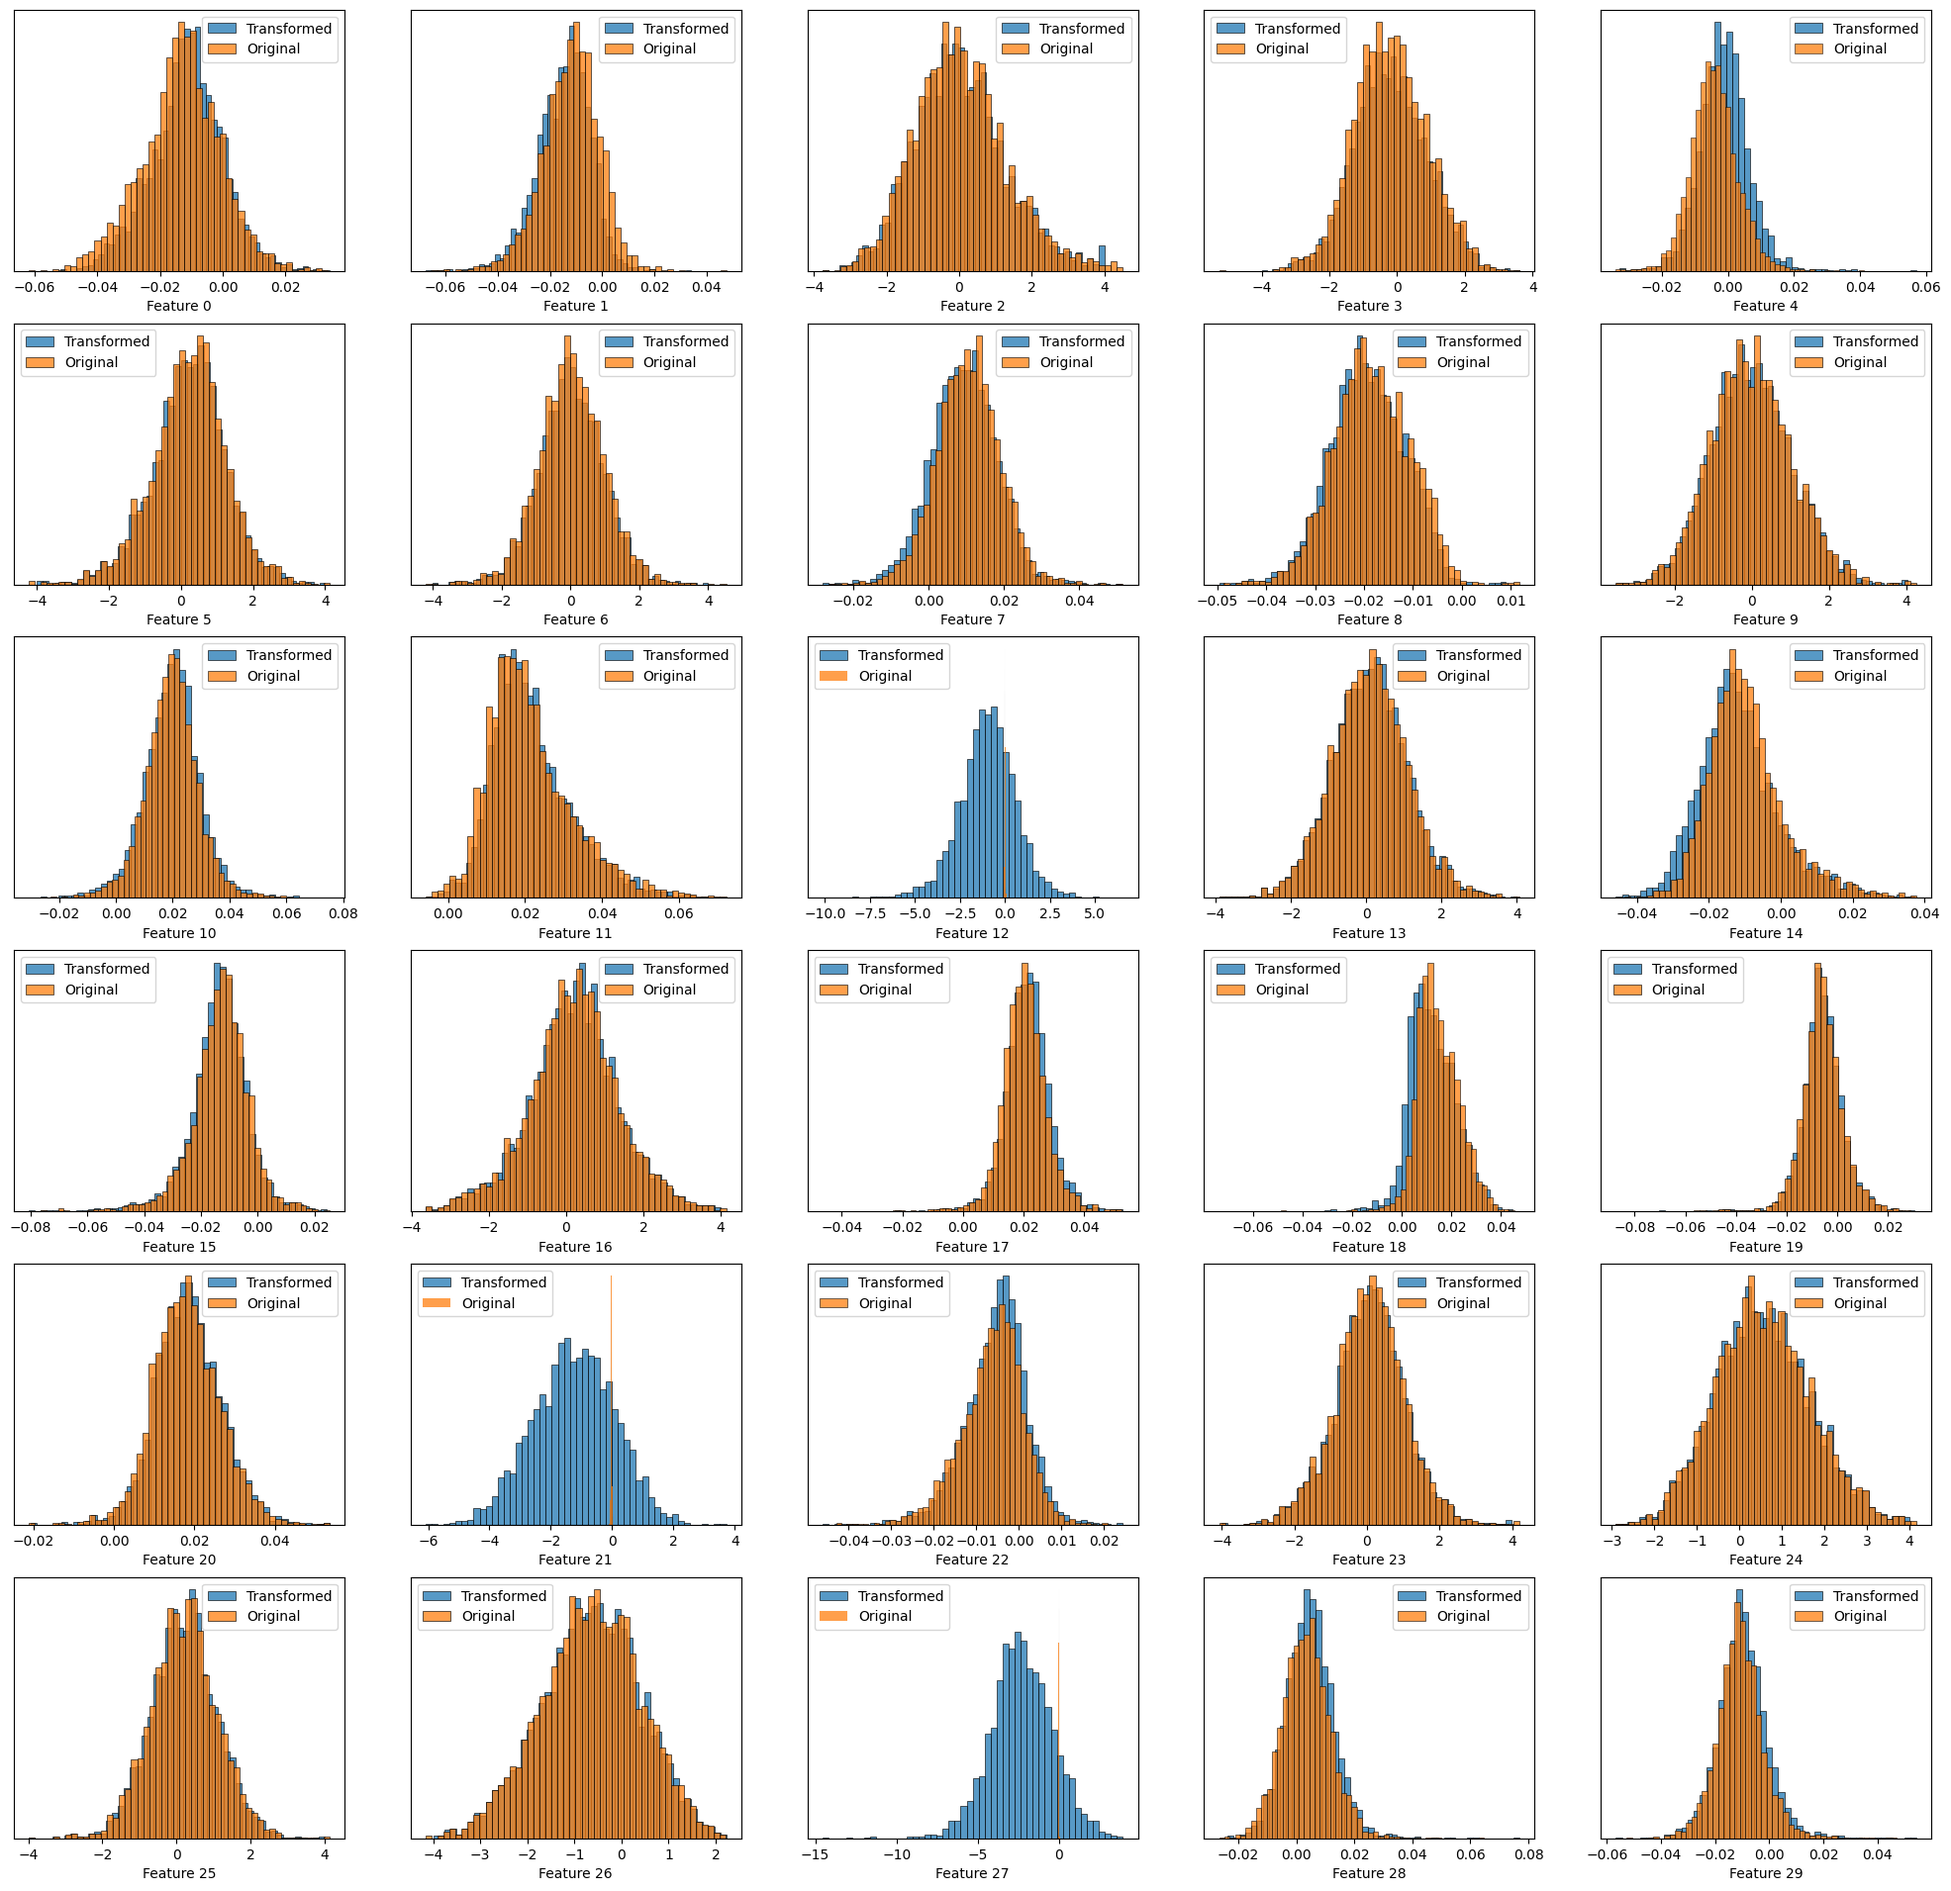
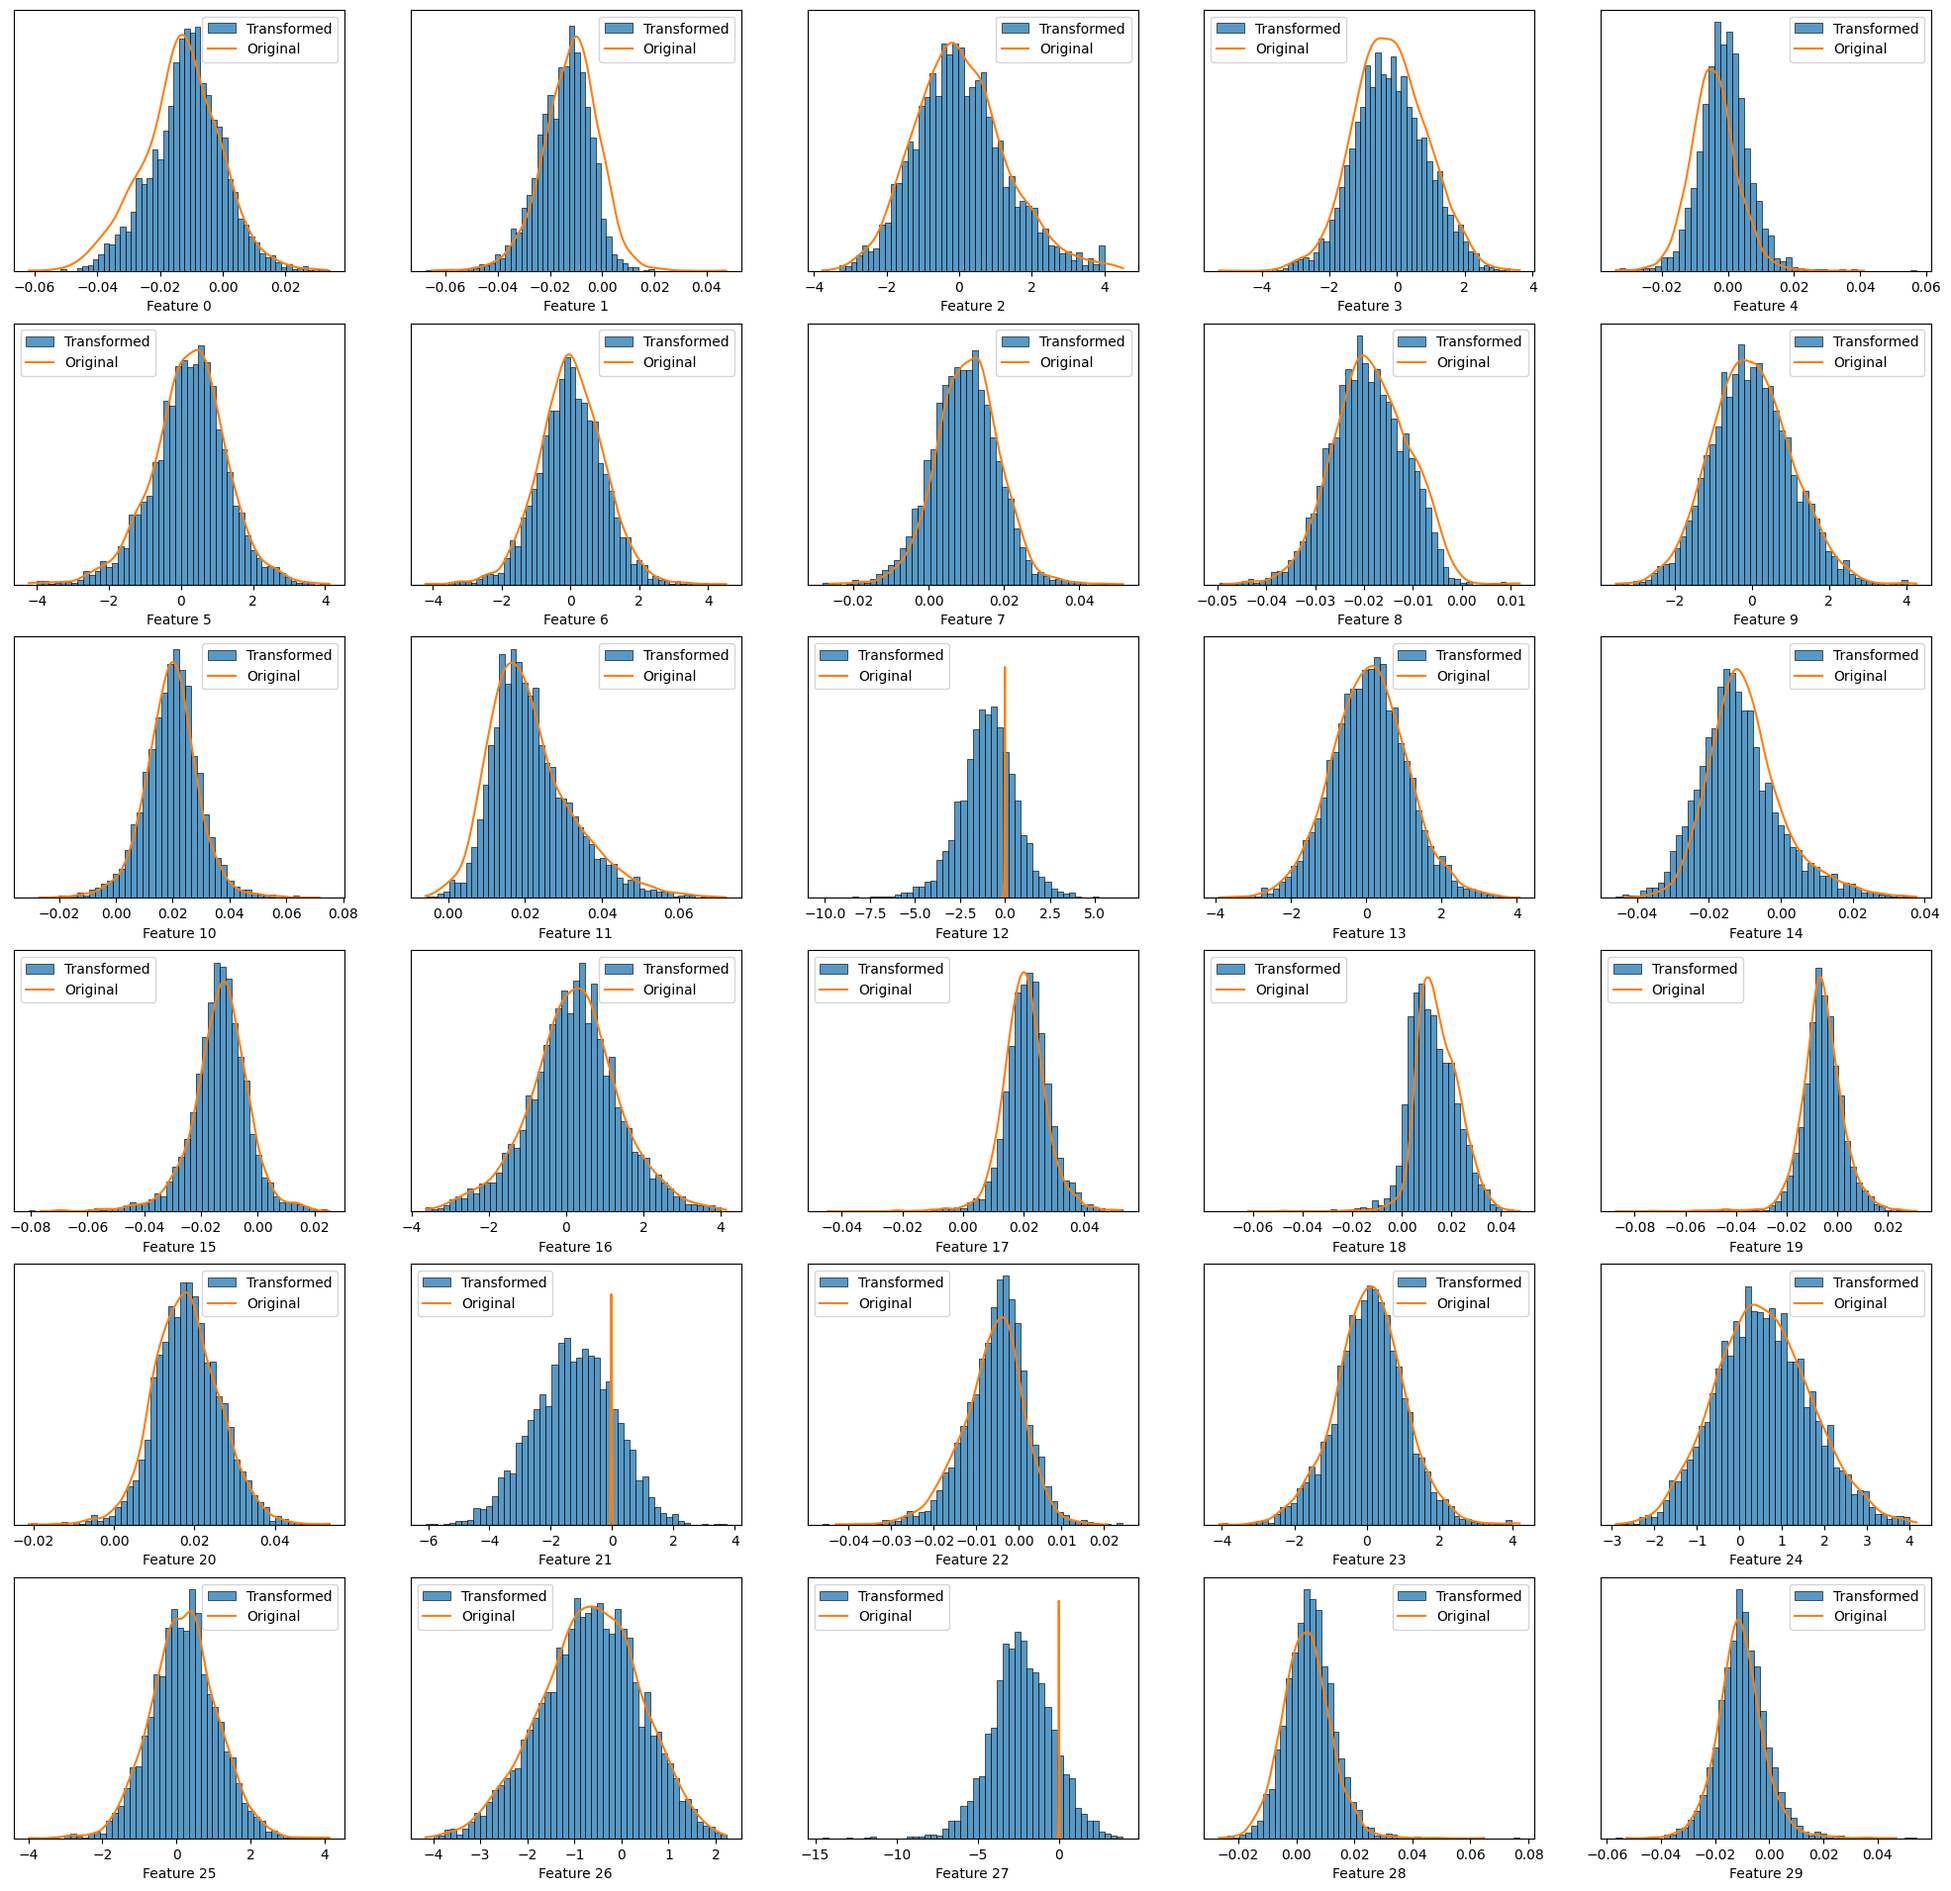
Code

diff --git a/comparison-extracted_features.py b/comparison-extracted_features.py
@@ -30,7 +30,7 @@ pd.set_option('display.width', None)
 
 run = 1
 encoding_dim = 30
-n_flows = 1
+n_flows = 3
 beta = 0.0001
 beta_name = "0001"
 epochs = 750
@@ -132,14 +132,14 @@ print(all_properties[all_properties["flag_sersic"] != 0])
 all_properties = all_properties.iloc[:-200]
 
 
-for n_flows in [1, 2, 3, 4, 5]:
+for n_flows in [3]:
 
     # load the extracted features
     # extracted_features = np.load("Variational Eagle/Extracted Features/Fully Balanced/" + str(encoding_dim) + "_feature_" + str(epochs) + "_epoch_" + str(batch_size) + "_bs_features_" + str(run) + ".npy")[0]
     # extracted_features = np.load("Variational Eagle/Extracted Features/Test/bce_beta_01.npy")[0]
     # extracted_features = np.load("Variational Eagle/Extracted Features/Final/bce_latent_" + str(encoding_dim) + "_beta_" + beta_name + "_epoch_" + str(epochs) + "_" + str(run) + ".npy")[0]
-    extracted_features = np.load("Variational Eagle/Extracted Features/Normalising Flow/planar_new_latent_" + str(encoding_dim) + "_beta_" + beta_name + "_epoch_" + str(epochs) + "_flows_" + str(n_flows) + "_" + str(run) + "_default.npy")[0]
-    # extracted_features = np.load("Variational Eagle/Extracted Features/Normalising Flow/planar_new_latent_" + str(encoding_dim) + "_beta_" + beta_name + "_epoch_" + str(epochs) + "_flows_" + str(n_flows) + "_" + str(run) + "_default_transformed.npy")
+    # extracted_features = np.load("Variational Eagle/Extracted Features/Normalising Flow/planar_new_latent_" + str(encoding_dim) + "_beta_" + beta_name + "_epoch_" + str(epochs) + "_flows_" + str(n_flows) + "_" + str(run) + "_default.npy")[0]
+    extracted_features = np.load("Variational Eagle/Extracted Features/Normalising Flow/planar_new_latent_" + str(encoding_dim) + "_beta_" + beta_name + "_epoch_" + str(epochs) + "_flows_" + str(n_flows) + "_" + str(run) + "_default_transformed.npy")
     encoding_dim = extracted_features.shape[1]
     extracted_features_switch = extracted_features.T
 
@@ -150,10 +150,10 @@ for n_flows in [1, 2, 3, 4, 5]:
     extracted_features_switch = extracted_features.T
 
     # perform pca on the extracted features
-    pca = PCA(n_components=0.999).fit(extracted_features)
-    extracted_features = pca.transform(extracted_features)
-    extracted_features = extracted_features[:len(all_properties)]
-    extracted_features_switch = extracted_features.T
+    # pca = PCA(n_components=0.999).fit(extracted_features)
+    # extracted_features = pca.transform(extracted_features)
+    # extracted_features = extracted_features[:len(all_properties)]
+    # extracted_features_switch = extracted_features.T
 
 
 
@@ -264,11 +264,11 @@ for n_flows in [1, 2, 3, 4, 5]:
 
     print(correlation_df)
 
-
+    correlation_df = correlation_df.iloc[[12, 21, 27]]
 
     # set the figure size
     # plt.figure(figsize=(20, extracted_features_switch.shape[0]))
-    plt.figure(figsize=(32, extracted_features_switch.shape[0]))
+    plt.figure(figsize=(32, correlation_df.shape[0]))
 
 
     # properties to plot
@@ -308,7 +308,7 @@ for n_flows in [1, 2, 3, 4, 5]:
     # plt.savefig("Variational Eagle/Correlation Plots/fully_balanced_" + str(encoding_dim) + "_feature_vae_all_property_correlation_" + str(run), bbox_inches='tight')
     # plt.savefig("Variational Eagle/Correlation Plots/Correlation Fully Balanced/" + str(encoding_dim) + "_feature_" + str(epochs) + "_epoch_" + str(batch_size) + "_bs_correlation_" + str(run), bbox_inches='tight')
     # plt.savefig("Variational Eagle/Correlation Plots/Final/pca_" + str(encoding_dim) + "_feature_" + str(epochs) + "_epoch_correlation_" + str(run), bbox_inches='tight')
-    plt.savefig("Variational Eagle/Correlation Plots/Variational Flows/PCA/latent_" + str(encoding_dim) + "_beta_" + beta_name + "_epoch_" + str(epochs) + "_flows_" + str(n_flows) + "_" + str(run) + "_pca", bbox_inches='tight')
+    plt.savefig("Variational Eagle/Correlation Plots/Variational Flows/Normal/latent_" + str(encoding_dim) + "_beta_" + beta_name + "_epoch_" + str(epochs) + "_flows_" + str(n_flows) + "_" + str(run) + "_subset_transformed", bbox_inches='tight')
     plt.show()
 
 

diff --git a/feature_distribution.py b/feature_distribution.py
@@ -2,6 +2,7 @@ import numpy as np
 import pandas as pd
 from PIL.GimpGradientFile import linear
 from matplotlib import pyplot as plt
+import matplotlib.lines as mlines
 import seaborn as sns
 import textwrap
 import random
@@ -29,7 +30,7 @@ encoding_dim = 30
 beta = 0.0001
 beta_name = "0001"
 epochs = 750
-n_flows = 5
+n_flows = 3
 run = 1
 batch_size = 32
 
@@ -123,7 +124,7 @@ print(all_properties)
 # extracted_features = np.load("Variational Eagle/Extracted Features/Normalising Flow/planar_new_latent_" + str(encoding_dim) + "_beta_" + beta_name + "_epoch_" + str(epochs) + "_flows_" + str(n_flows) + "_" + str(run) + "_default.npy")[0]
 extracted_features = np.load("Variational Eagle/Extracted Features/Normalising Flow/planar_new_latent_" + str(encoding_dim) + "_beta_" + beta_name + "_epoch_" + str(epochs) + "_flows_" + str(n_flows) + "_" + str(run) + "_default_transformed.npy")
 
-extracted_features = extracted_features[:len(all_properties)]
+# extracted_features = extracted_features[:len(all_properties)]
 extracted_features_switch = extracted_features.T
 
 # perform pca on the extracted features
@@ -158,7 +159,7 @@ for i in range(rows):
 
 extracted_features = np.load("Variational Eagle/Extracted Features/Normalising Flow/planar_new_latent_" + str(encoding_dim) + "_beta_" + beta_name + "_epoch_" + str(epochs) + "_flows_" + str(n_flows) + "_" + str(run) + "_default.npy")[0]
 
-extracted_features = extracted_features[:len(all_properties)]
+# extracted_features = extracted_features[:len(all_properties)]
 extracted_features_switch = extracted_features.T
 
 # perform pca on the extracted features
@@ -167,22 +168,31 @@ extracted_features_switch = extracted_features.T
 # extracted_features = extracted_features[:len(all_properties)]
 # extracted_features_switch = extracted_features.T
 
-print(extracted_features.shape)
 
+standard_normal = np.random.normal(loc=0, scale=1, size=extracted_features.shape[0])
+print(len(standard_normal))
 
-print(rows, cols)
 
 for i in range(rows):
     for j in range(cols):
 
         try:
-            # sns.histplot(x=extracted_features.T[j + (i*cols)],ax=axs[i][j], bins=50, element="poly", label="Original")
-            sns.histplot(x=extracted_features.T[j + (i*cols)],ax=axs[i][j], bins=50, label="Original")
+            sns.histplot(x=extracted_features.T[j + (i*cols)],ax=axs[i][j], kde=True, color="C1", fill=False, alpha=0, bins=50)
+            # sns.histplot(x=extracted_features.T[j + (i*cols)],ax=axs[i][j], bins=50, label="Original")
             axs[i][j].set_xlabel("Feature " + str(j + (i*cols)))
             axs[i][j].set_ylabel("")
             axs[i][j].set_yticks([])
 
-            axs[i][j].legend()
+
+            sns.histplot(x=standard_normal,ax=axs[i][j], kde=True, color="black", fill=False, alpha=0, bins=50)
+
+
+            orange_line = mlines.Line2D([], [], color="C1", linestyle='-', label="Original")
+            black_line = mlines.Line2D([], [], color="black", linestyle='-', label="Gaussian")
+            handles = axs[i][j].get_legend_handles_labels()[0] + [orange_line, black_line]
+            axs[i][j].legend(handles=handles)
+
+            # axs[i][j].legend()
 
         except:
             print(j + (i*cols))
@@ -200,5 +210,5 @@ print(extracted_features.T[0])
 
 
 
-plt.savefig("Variational Eagle/Distribution Plots/Normal/latent_" + str(encoding_dim) + "_beta_" + beta_name + "_epoch_" + str(epochs) + "_flows_" + str(n_flows) + "_" + str(run), bbox_inches='tight')
+plt.savefig("Variational Eagle/Distribution Plots/Normal/latent_" + str(encoding_dim) + "_beta_" + beta_name + "_epoch_" + str(epochs) + "_flows_" + str(n_flows) + "_" + str(run) + "_all_gaussian", bbox_inches='tight')
 plt.show()

diff --git a/apply_planar_flow_vae_eagle.py b/apply_planar_flow_vae_eagle.py
@@ -835,8 +835,8 @@ for n_flows in [6, 7, 8, 9, 10, 11, 12]:
 
     # reconstruct the images
     test_features, _, _, _ = vae.encoder.predict(images_to_reconstruct)
-    test_features = apply_flows(test_features, flows)
-    reconstructed_images = vae.decoder.predict(test_features)
+    transformed_features = apply_flows(test_features, flows)
+    reconstructed_images = vae.decoder.predict(transformed_features)
 
     # create figure to hold subplots
     fig, axs = plt.subplots(2, n - 1, figsize=(18, 5))
@@ -846,7 +846,7 @@ for n_flows in [6, 7, 8, 9, 10, 11, 12]:
 
         # normalise the images
         original_image = normalise_independently(images_to_reconstruct[i])
-        reconstructed_image = normalise_independently(reconstructed_images[i])
+        reconstructed_image = normalise_independently([i])
 
         # show the original image (remove axes)
         axs[0, i].imshow(original_image)
@@ -879,8 +879,8 @@ for n_flows in [6, 7, 8, 9, 10, 11, 12]:
 
     # reconstruct the images
     test_features, _, _, _ = vae.encoder.predict(images_to_reconstruct)
-    test_features = apply_flows(test_features, flows)
-    reconstructed_images = vae.decoder.predict(test_features)
+    transformed_features = apply_flows(test_features, flows)
+    reconstructed_images = vae.decoder.predict(transformed_features)
 
     # create figure to hold subplots
     fig, axs = plt.subplots(2, n-1, figsize=(18,5))

diff --git a/loss_flows.py b/loss_flows.py
@@ -436,7 +436,7 @@ for encoding_dim in [30]:
         reconstruction_loss_transformed_all.append(reconstruction_loss)
         kl_loss_transformed_all.append(kl_loss)
 
-
+ 
 
     np.save("Variational Eagle/Loss/Normalising Flow/total_loss_beta_" + str(encoding_dim), total_loss_all)
     np.save("Variational Eagle/Loss/Normalising Flow/reconstruction_loss_beta_" + str(encoding_dim), reconstruction_loss_all)
